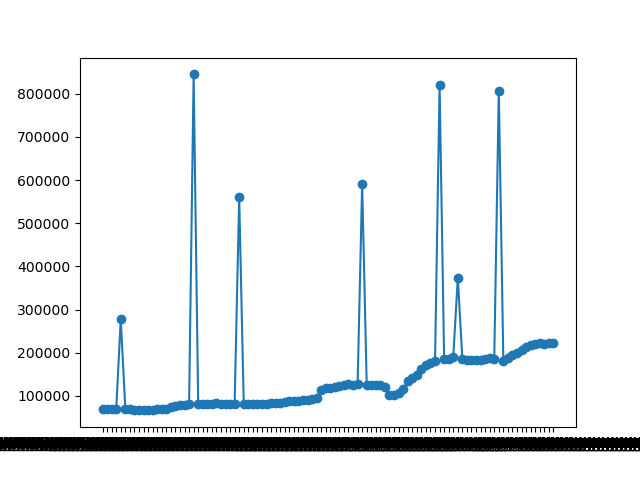
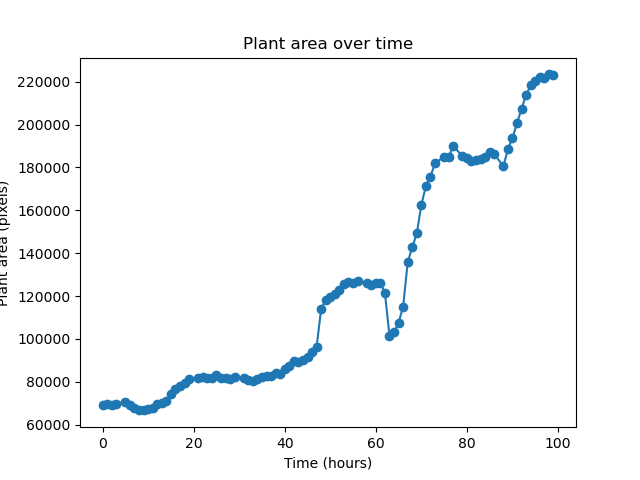
got a prototypical workflow for plotting area over time working

diff --git a/workflow/plant_area_over_time/plant_area_over_time.py b/workflow/plant_area_over_time/plant_area_over_time.py
@@ -38,7 +38,31 @@ file_names_series = pd.Series(file_names[:100])
 areas = file_names_series.p_map(get_area).tolist()
 #print(areas)
 
-plt.plot(file_names[:100], areas, marker='o')
+graph_dataframe = pd.DataFrame({"area": areas[:100], "hours_from_start": hours_from_start[:100]})
+
+#since the differentials in time are so small, having a 50% spike margin seems like a somewhat reasonable guess that won't remove normal observations
+condition = graph_dataframe['area'] > 1.5 * graph_dataframe['area'].shift(1)
+filtered_df = graph_dataframe[~condition | graph_dataframe.index.isin([0])]
+
+
+'''
+# Calculate the IQR
+Q1 = graph_dataframe['area'].quantile(0.25)
+Q3 = graph_dataframe['area'].quantile(0.75)
+IQR = Q3 - Q1
+
+# Define bounds for outliers
+upper_bound = Q3 + 1.5 * IQR
+
+print(upper_bound)
+# Filter out outliers
+filtered_df = graph_dataframe[graph_dataframe['area'] <= upper_bound]'''
+
+plt.clf()
+plt.plot(filtered_df['hours_from_start'], filtered_df['area'], marker='o')
+plt.title("Plant area over time")
+plt.xlabel("Time (hours)")
+plt.ylabel("Plant area (pixels)")
 plt.savefig('test.png')
 
 
